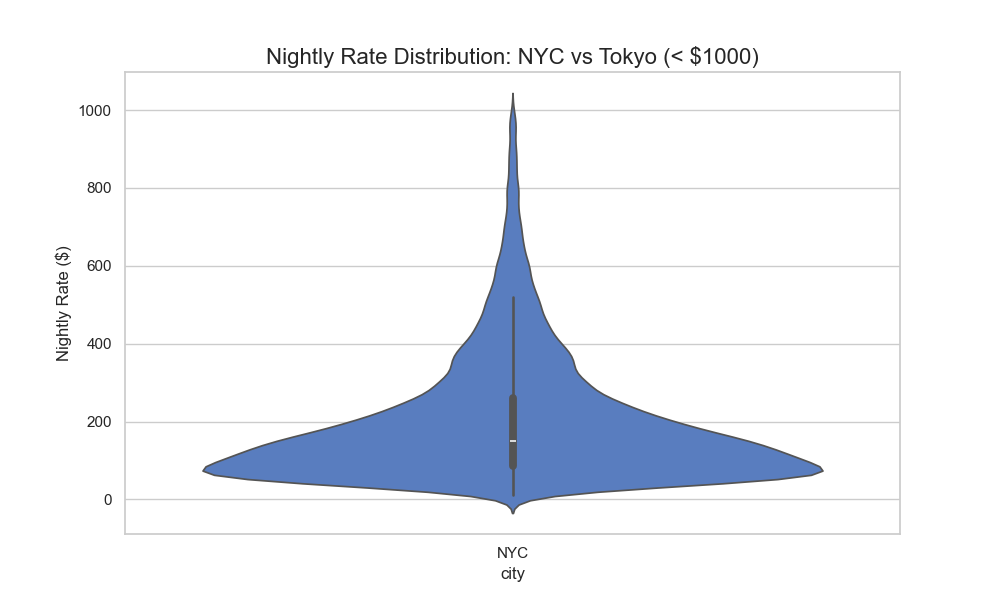
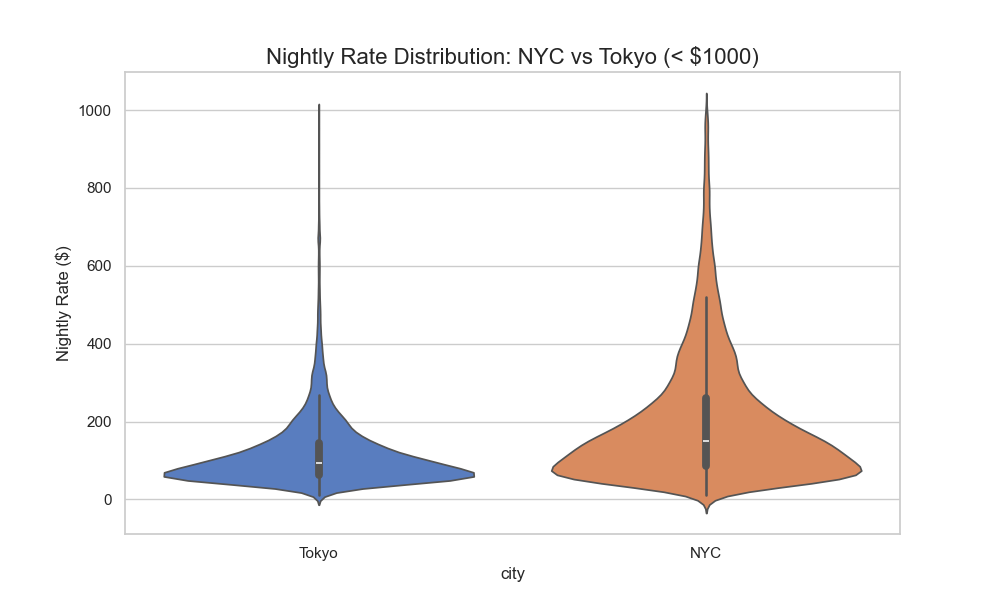
Fix: Normalize Tokyo JPY to USD in visualizations

diff --git a/visualize_results.py b/visualize_results.py
@@ -13,6 +13,16 @@ def generate_visuals():
         print("❌ valuation_model_input.csv not found. Run pipeline.py first.")
         return
 
+    # Data Cleaning for Visualization
+    # Convert Tokyo JPY to USD (Approx 1 JPY = 0.0067 USD or ~150 JPY/USD)
+    conversion_rate = 0.0067
+    tky_mask = df['city'] == 'Tokyo'
+    
+    cols_to_convert = ['nightly_rate', 'annual_revenue_conservative', 'annual_revenue_realistic', 'annual_revenue_optimistic']
+    for col in cols_to_convert:
+        df.loc[tky_mask, col] = df.loc[tky_mask, col] * conversion_rate
+
+
     # Set Style
     sns.set_theme(style="whitegrid")
     
